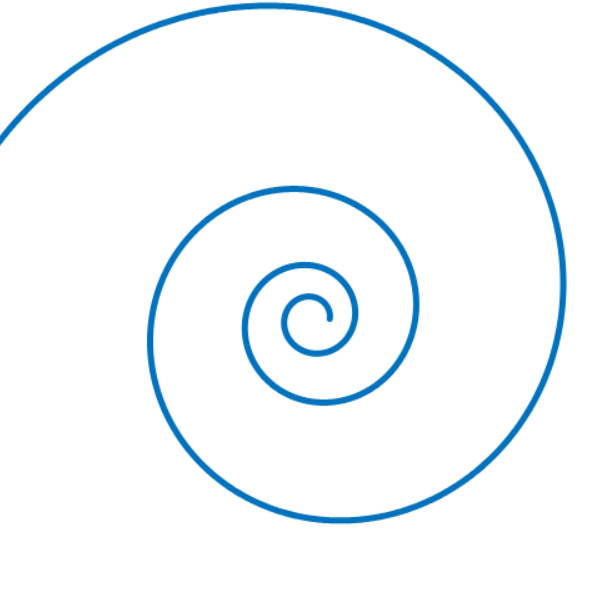
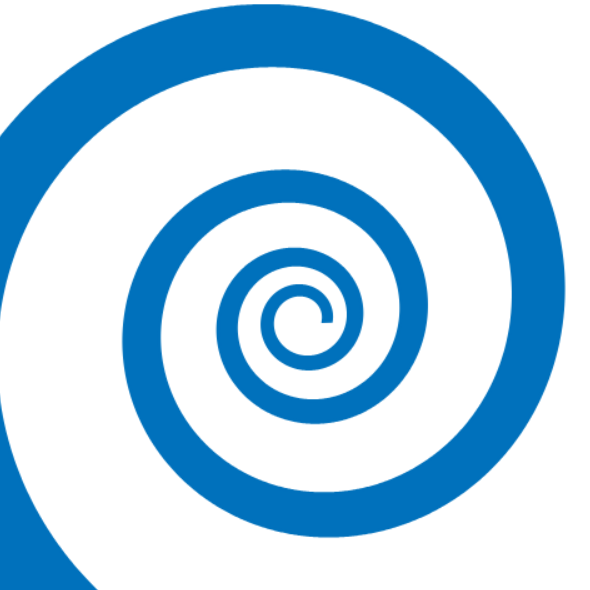
projected SIM(2) exponential curve becomes chunkier at bigger scales.

diff --git a/curiosa/sim2_exponential/main.js b/curiosa/sim2_exponential/main.js
@@ -2,12 +2,11 @@ import { resizeCanvasToDisplaySize } from "/utils/canvas.js";
 import { InputRanges } from "/utils/input.js";
 
 const goldenRatio = (1 + Math.sqrt(5))/2;
-const cAGoldenRatio = (2 / Math.PI) * Math.log(goldenRatio)
-console.log(cAGoldenRatio);
+const cAGoldenRatio = (2 / Math.PI) * Math.log(goldenRatio);
 
 const container = document.getElementsByClassName("content-container")[0];
 const inputRange = new InputRanges(container);
-const cARange = inputRange.addRange({ label: "cA", shownLabel: "\\(c^A\\)", defaultValue: cAGoldenRatio, min: 0, max: 1 });
+const cARange = inputRange.addRange({ label: "cA", shownLabel: "\\(c^A\\)", defaultValue: cAGoldenRatio, min: -1, max: 1 });
 
 const canvas = document.createElement("canvas");
 canvas.id = "canvas";
@@ -39,24 +38,35 @@ function project(x, y) {
 
 function plotSpiral() {
   const cA = inputRange.getValue("cA");
+  const rSmall = 0.9;
+  const rBig = 1.1;
 
-  function spiralPoint(t) {
-    return [ Math.exp(t * cA) * Math.cos(t), Math.exp(t * cA) * Math.sin(t) ]
+  function spiralPoint(t, r) {
+    return [ r * Math.exp(t * cA) * Math.cos(t), r * Math.exp(t * cA) * Math.sin(t) ]
   }
   ctx.fillStyle = white;
   ctx.fillRect(0, 0, canvas.width, canvas.height);
   ctx.lineWidth = lineWidth;
-  ctx.lineCap = "round";
   ctx.strokeStyle = royalBlue;
+  ctx.fillStyle = royalBlue;
   ctx.beginPath();
-  let [ x, y ] = project(...spiralPoint(tStart, cA));
+  let [ x, y ] = project(...spiralPoint(tStart, rSmall));
   ctx.moveTo(x, y);
   for (let k = 1; k < nSamples; k++) {
     let t = tStart + k * dt;
-    let [ x, y ] = project(...spiralPoint(t, cA));
+    [ x, y ] = project(...spiralPoint(t, rSmall));
     ctx.lineTo(x, y);
   }
+  [ x, y ] = project(...spiralPoint(tEnd, rBig));
+  ctx.lineTo(x, y);
+  for (let k = 1; k < nSamples; k++) {
+    let t = tEnd - k * dt;
+    [ x, y ] = project(...spiralPoint(t, rBig));
+    ctx.lineTo(x, y);
+  }
+  ctx.closePath();
   ctx.stroke();
+  ctx.fill();
 }
 
 plotSpiral();

diff --git a/curiosa/sim2_exponential/index.html b/curiosa/sim2_exponential/index.html
@@ -41,7 +41,6 @@
 
             const root = document.documentElement;
             const storedScheme = localStorage.getItem('scheme');
-            console.log(storedScheme)
             const colourButton = document.getElementById("colourbutton");
             const prefersDark = window.matchMedia('(prefers-color-scheme: dark)').matches;
             const scheme = storedScheme || (prefersDark ? 'dark' : 'light');
@@ -138,8 +137,8 @@
                 Hence, the spatial projection is the logarithmic spiral \(t \mapsto (e^{t c^A} \cos(t), e^{t c^A} \sin(t))\).
                 To see this, define the radius \(r(t) \coloneqq \Vert \gamma(t) y \Vert^2 = e^{t c^A}\);
                 it follows that \(r(t + \pi/2) / r(t) = e^{\frac{\pi}{2} c^A}\), which is constant for all \(t \in \mathbb{R}\).
-                If we now choose \(c^A\) such that \(e^{\frac{\pi}{2} c^A} = \varphi\), i.e. \(c^A = \frac{2}{\pi} \log(\phi)\),
-                with \(\phi \coloneqq \frac{1 + \sqrt{5}}{2}\) the golden ratio, then this curve is a so-called golden spiral.
+                Choosing \(c^A\) such that \(e^{\frac{\pi}{2} c^A} = \varphi\), i.e. \(c^A = \frac{2}{\pi} \log(\phi)\),
+                with \(\phi \coloneqq \frac{1 + \sqrt{5}}{2}\) the golden ratio, this curve becomes a so-called golden spiral.
             </p>
          </div>
     </main>

diff --git a/utils/input.js b/utils/input.js
@@ -289,7 +289,7 @@ export class InputRanges {
         range.min = min;
         range.max = max;
         range.step = step;
-        range.value = defaultStep*step;
+        range.value = min + defaultStep*step;
         if (width) {
             range.size = width;
         }
@@ -302,7 +302,6 @@ export class InputRanges {
         tdShownValue.append(htmlShownValue);
 
         range.addEventListener('input', () => {
-            console.log("change!");
             htmlShownValue.textContent = Number(range.value).toFixed(3);
         })
 

diff --git a/404.html b/404.html
@@ -31,7 +31,6 @@
 
             const root = document.documentElement;
             const storedScheme = localStorage.getItem('scheme');
-            console.log(storedScheme)
             const colourButton = document.getElementById("colourbutton");
             const prefersDark = window.matchMedia('(prefers-color-scheme: dark)').matches;
             const scheme = storedScheme || (prefersDark ? 'dark' : 'light');

diff --git a/curiosa.html b/curiosa.html
@@ -96,7 +96,6 @@
 
             const root = document.documentElement;
             const storedScheme = localStorage.getItem('scheme');
-            console.log(storedScheme)
             const colourButton = document.getElementById("colourbutton");
             const prefersDark = window.matchMedia('(prefers-color-scheme: dark)').matches;
             const scheme = storedScheme || (prefersDark ? 'dark' : 'light');

diff --git a/curiosa/conway/index.html b/curiosa/conway/index.html
@@ -38,7 +38,6 @@
 
             const root = document.documentElement;
             const storedScheme = localStorage.getItem('scheme');
-            console.log(storedScheme)
             const colourButton = document.getElementById("colourbutton");
             const prefersDark = window.matchMedia('(prefers-color-scheme: dark)').matches;
             const scheme = storedScheme || (prefersDark ? 'dark' : 'light');

diff --git a/curiosa/diffusion_shock/index.html b/curiosa/diffusion_shock/index.html
@@ -41,7 +41,6 @@
 
             const root = document.documentElement;
             const storedScheme = localStorage.getItem('scheme');
-            console.log(storedScheme)
             const colourButton = document.getElementById("colourbutton");
             const prefersDark = window.matchMedia('(prefers-color-scheme: dark)').matches;
             const scheme = storedScheme || (prefersDark ? 'dark' : 'light');

diff --git a/curiosa/eikonal_pde/index.html b/curiosa/eikonal_pde/index.html
@@ -41,7 +41,6 @@
 
             const root = document.documentElement;
             const storedScheme = localStorage.getItem('scheme');
-            console.log(storedScheme)
             const colourButton = document.getElementById("colourbutton");
             const prefersDark = window.matchMedia('(prefers-color-scheme: dark)').matches;
             const scheme = storedScheme || (prefersDark ? 'dark' : 'light');

diff --git a/curiosa/flow_matching_on_lie_groups/index.html b/curiosa/flow_matching_on_lie_groups/index.html
@@ -31,7 +31,6 @@
 
             const root = document.documentElement;
             const storedScheme = localStorage.getItem('scheme');
-            console.log(storedScheme)
             const colourButton = document.getElementById("colourbutton");
             const prefersDark = window.matchMedia('(prefers-color-scheme: dark)').matches;
             const scheme = storedScheme || (prefersDark ? 'dark' : 'light');

diff --git a/curiosa/generators/index.html b/curiosa/generators/index.html
@@ -41,7 +41,6 @@
 
             const root = document.documentElement;
             const storedScheme = localStorage.getItem('scheme');
-            console.log(storedScheme)
             const colourButton = document.getElementById("colourbutton");
             const prefersDark = window.matchMedia('(prefers-color-scheme: dark)').matches;
             const scheme = storedScheme || (prefersDark ? 'dark' : 'light');

diff --git a/index.html b/index.html
@@ -71,7 +71,6 @@
 
             const root = document.documentElement;
             const storedScheme = localStorage.getItem('scheme');
-            console.log(storedScheme)
             const colourButton = document.getElementById("colourbutton");
             const prefersDark = window.matchMedia('(prefers-color-scheme: dark)').matches;
             const scheme = storedScheme || (prefersDark ? 'dark' : 'light');

diff --git a/teaching.html b/teaching.html
@@ -31,7 +31,6 @@
 
             const root = document.documentElement;
             const storedScheme = localStorage.getItem('scheme');
-            console.log(storedScheme)
             const colourButton = document.getElementById("colourbutton");
             const prefersDark = window.matchMedia('(prefers-color-scheme: dark)').matches;
             const scheme = storedScheme || (prefersDark ? 'dark' : 'light');
